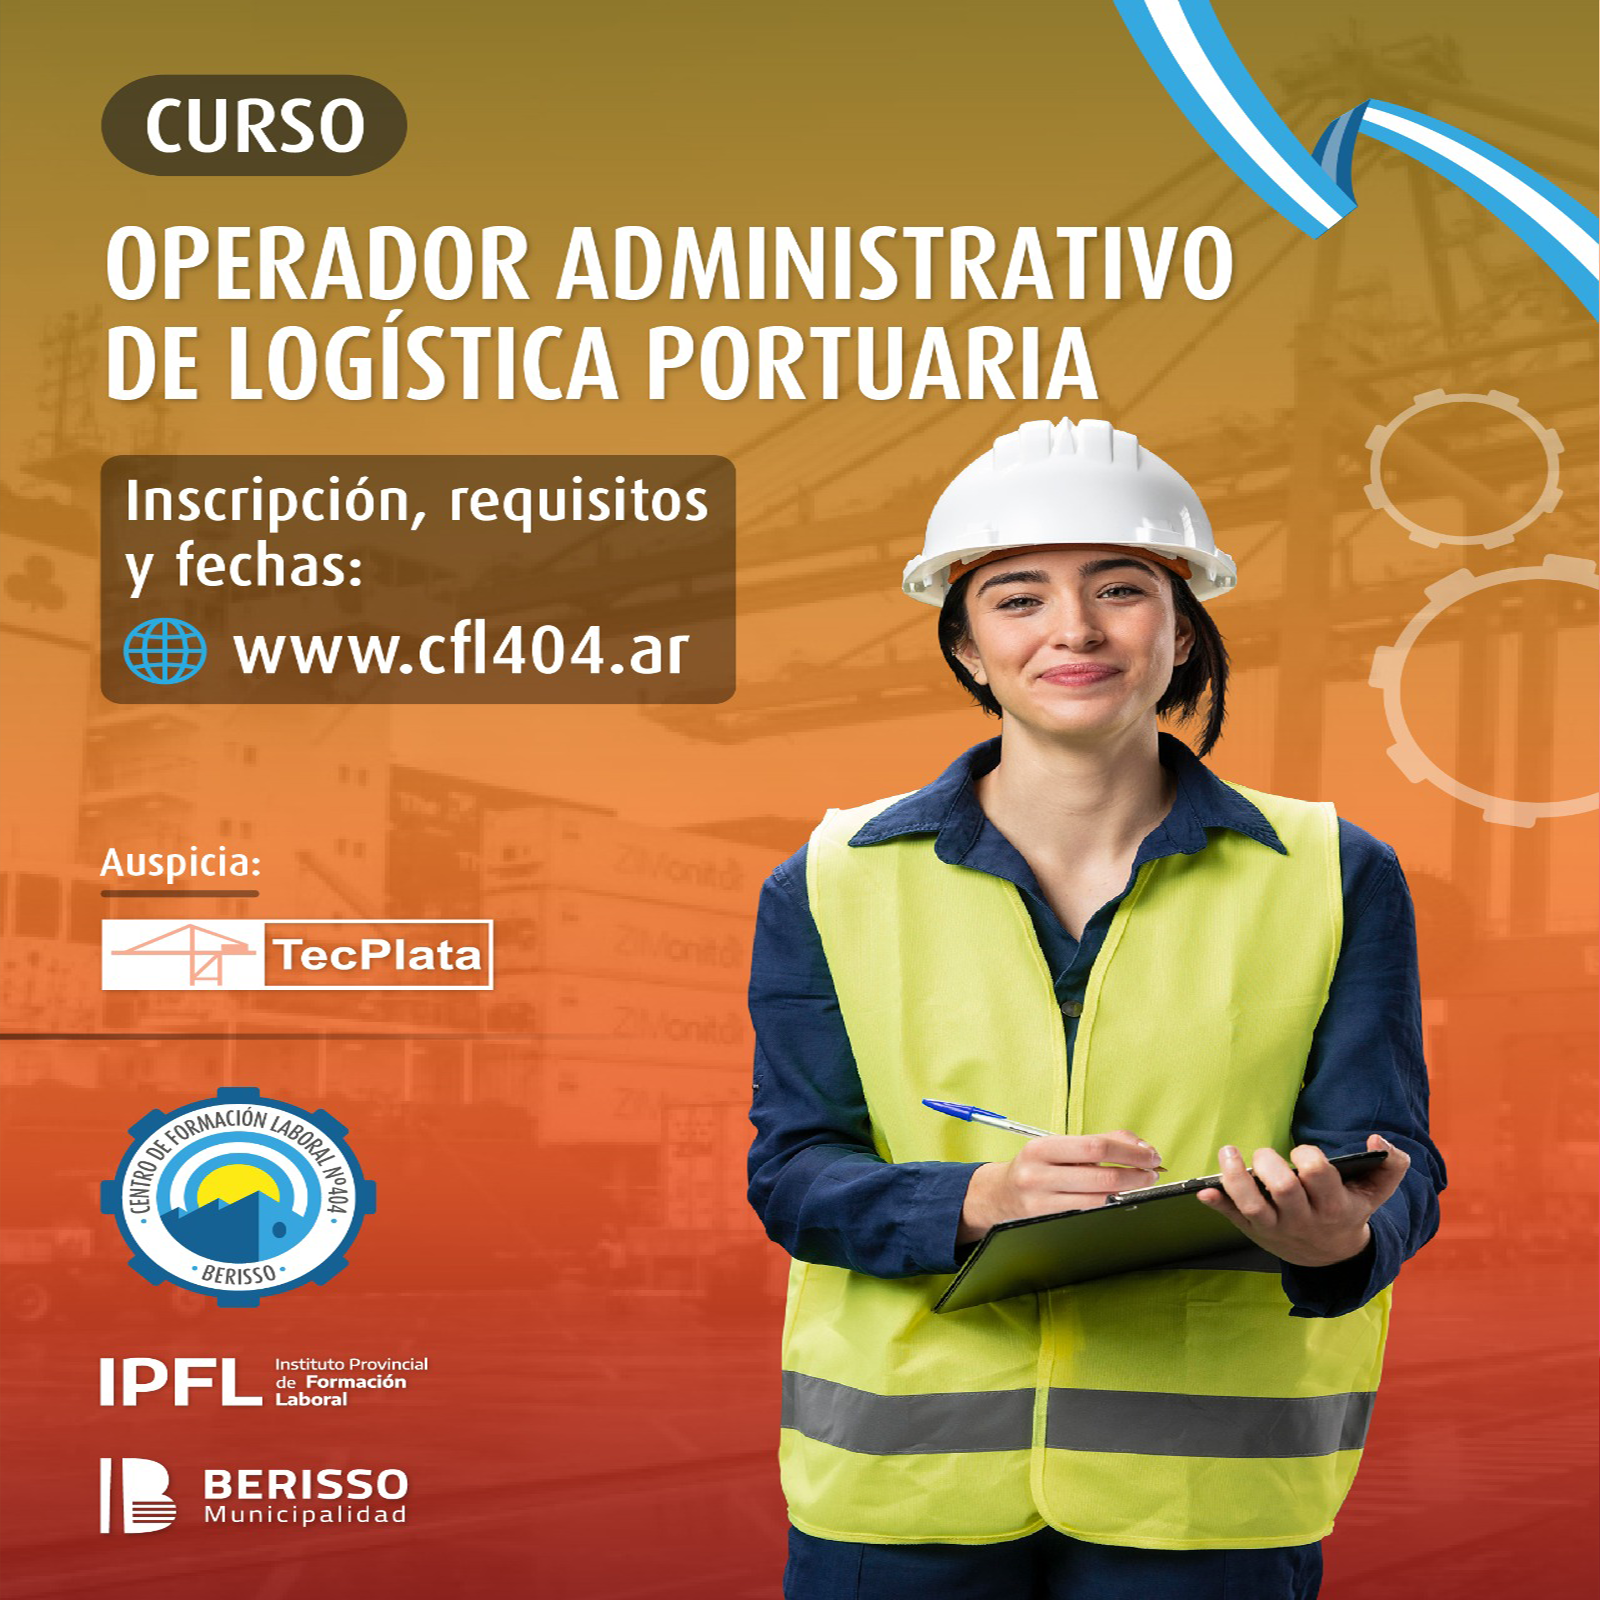
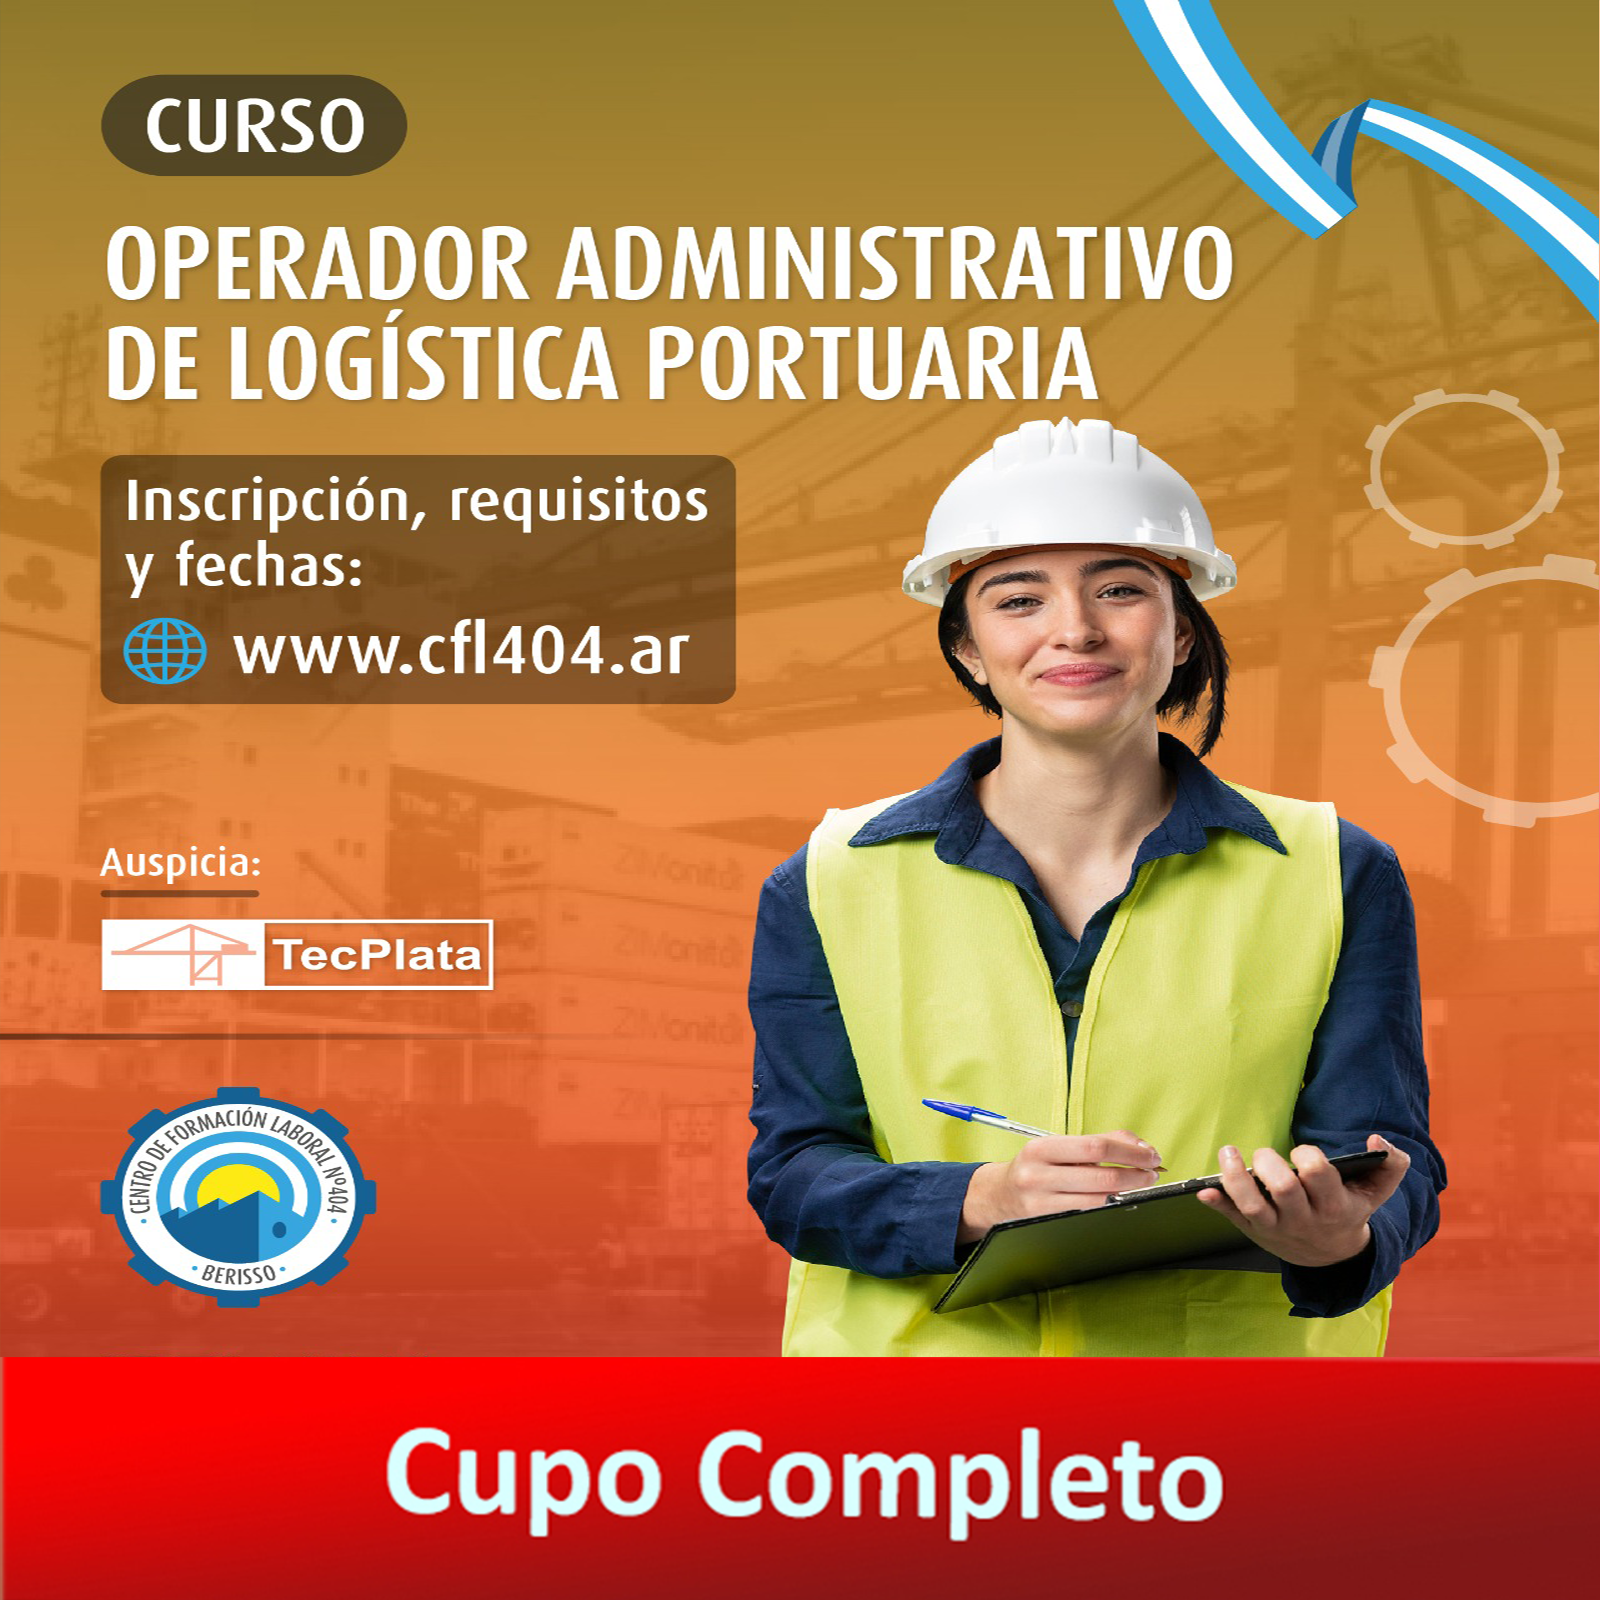
cupo completo

Changed region(s): [[0.0, 0.8438, 1.0, 1.0]]

diff --git a/index.html b/index.html
@@ -134,18 +134,7 @@
             </div>
         -->
             
-            <div class="cursos">
-            <a href="portuario.html" target="">
-                <div class="zoom">
-                    <img src="img/2025/portuario.png" alt="" class="imagen_curso">
-                </div>
-                <div class="titulo_cursos">
-                    <h2 class="estilo_h2 h" style="font-size: large;">Operador/a Administrativo/a de Logística Portuaria</h2>
-                    <h3 class="estilo_h3">Duración: 3 meses</h3>
-                    <h2 class="boton_info"><a href="portuario.html" target="">+INFO / INSCRIPCIÓN</a></h2>
-                </div>
-            </a>
-        </div>
+            
 
         <div class="cursos">
             <a href="armadorPlacasYeso.html" target="">
@@ -160,18 +149,6 @@
             </a>
         </div>
 
-        <div class="cursos">
-            <a href="ciclomotores.html" target="">
-                <div class="zoom">
-                    <img src="img/2025/Motos.jpeg" alt="" class="imagen_curso">
-                </div>
-                <div class="titulo_cursos">
-                    <h2 class="estilo_h2 h">Mecánica de Ciclomotor</h2>
-                    <h3 class="estilo_h3">Duración: 8 meses</h3>
-                    <h2 class="boton_info"><a href="ciclomotores.html" target="">+INFO / INSCRIPCIÓN</a></h2>
-                </div>
-            </a>
-        </div>
 
         <div class="cursos">
             <a href="administracionPymes.html" target="">
@@ -200,19 +177,7 @@
                     </div>
                 </a>
             </div>
-
-            <div class="cursos">
-                <a href="/limpieza.html" target="">
-                    <div class="zoom">
-                        <img src="img/2025/Limpieza.jpeg" alt="" class="imagen_curso">
-                    </div>
-                    <div class="titulo_cursos">
-                        <h2 class="estilo_h2 h">Limpieza Institucional</h2>
-                        <h3 class="estilo_h3">Duración: 3 meses</h3>
-                        <h2 class="boton_info"><a href="/limpieza.html" target="">+INFO / INSCRIPCIÓN</a></h2>
-                    </div>
-                </a>
-            </div>
+          
 
             <div class="cursos">
             <a href="fibraOptica.html" target="">
@@ -275,6 +240,45 @@
                     <h2 class="estilo_h2 h">Instalador y Administrador de Redes Informáticas</h2>
                     <h3 class="estilo_h3">Duración: 9 meses</h3>
                     <h2 class="boton_info"><a href="redes.html" target="">+INFO / INSCRIPCIÓN</a></h2>
+                </div>
+            </a>
+        </div>
+
+        <div class="cursos">
+            <a href="ciclomotores.html" target="">
+                <div class="zoom">
+                    <img src="img/2025/Motos.jpeg" alt="" class="imagen_curso">
+                </div>
+                <div class="titulo_cursos">
+                    <h2 class="estilo_h2 h">Mecánica de Ciclomotor</h2>
+                    <h3 class="estilo_h3">Duración: 8 meses</h3>
+                    <h2 class="boton_info"><a href="ciclomotores.html" target="">+INFO / INSCRIPCIÓN</a></h2>
+                </div>
+            </a>
+        </div>
+
+        <div class="cursos">
+            <a href="/limpieza.html" target="">
+                <div class="zoom">
+                    <img src="img/2025/Limpieza.jpeg" alt="" class="imagen_curso">
+                </div>
+                <div class="titulo_cursos">
+                    <h2 class="estilo_h2 h">Limpieza Institucional</h2>
+                    <h3 class="estilo_h3">Duración: 3 meses</h3>
+                    <h2 class="boton_info"><a href="/limpieza.html" target="">+INFO / INSCRIPCIÓN</a></h2>
+                </div>
+            </a>
+        </div>
+
+        <div class="cursos">
+            <a href="portuario.html" target="">
+                <div class="zoom">
+                    <img src="img/2025/portuario.png" alt="" class="imagen_curso">
+                </div>
+                <div class="titulo_cursos">
+                    <h2 class="estilo_h2 h" style="font-size: large;">Operador/a Administrativo/a de Logística Portuaria</h2>
+                    <h3 class="estilo_h3">Duración: 3 meses</h3>
+                    <h2 class="boton_info"><a href="portuario.html" target="">+INFO / INSCRIPCIÓN</a></h2>
                 </div>
             </a>
         </div>

diff --git a/portuario.html b/portuario.html
@@ -107,7 +107,7 @@
             <li>- Todos los cursos son <strong>TOTALMENTE GRATUITOS</strong></li>
         </ul><br>
 
-        <a href="INSCRIPCION_URL"><button class="mas_info">Anotarme</button></a><br>
+        <a href="#"><button class="mas_info">Cupo Completo</button></a><br>
     </div>
 
     <!-- Sección de scripts -->

diff --git a/ciclomotores.html b/ciclomotores.html
@@ -93,8 +93,8 @@
             <li>- Todos los cursos son <strong>TOTALMENTE GRATUITOS</strong></li>
         </ul><br>
 
-        <a href="INSCRIPCION_URL"><button class="mas_info">
-                Anotarme
+        <a href="#"><button class="mas_info">
+            Cupo Completo
             </button></a><br />
     </div>
 

diff --git a/limpieza.html b/limpieza.html
@@ -83,9 +83,9 @@
             <li>- Todos los cursos son <strong>TOTALMENTE GRATUITOS</strong></li>
         </ul><br>
 
-        <a href="INSCRIPCION_URL"
+        <a href="#"
         ><button class="mas_info">
-        Anotarme
+        Cupo Completo
         </button></a
       ><br />
     </div>
